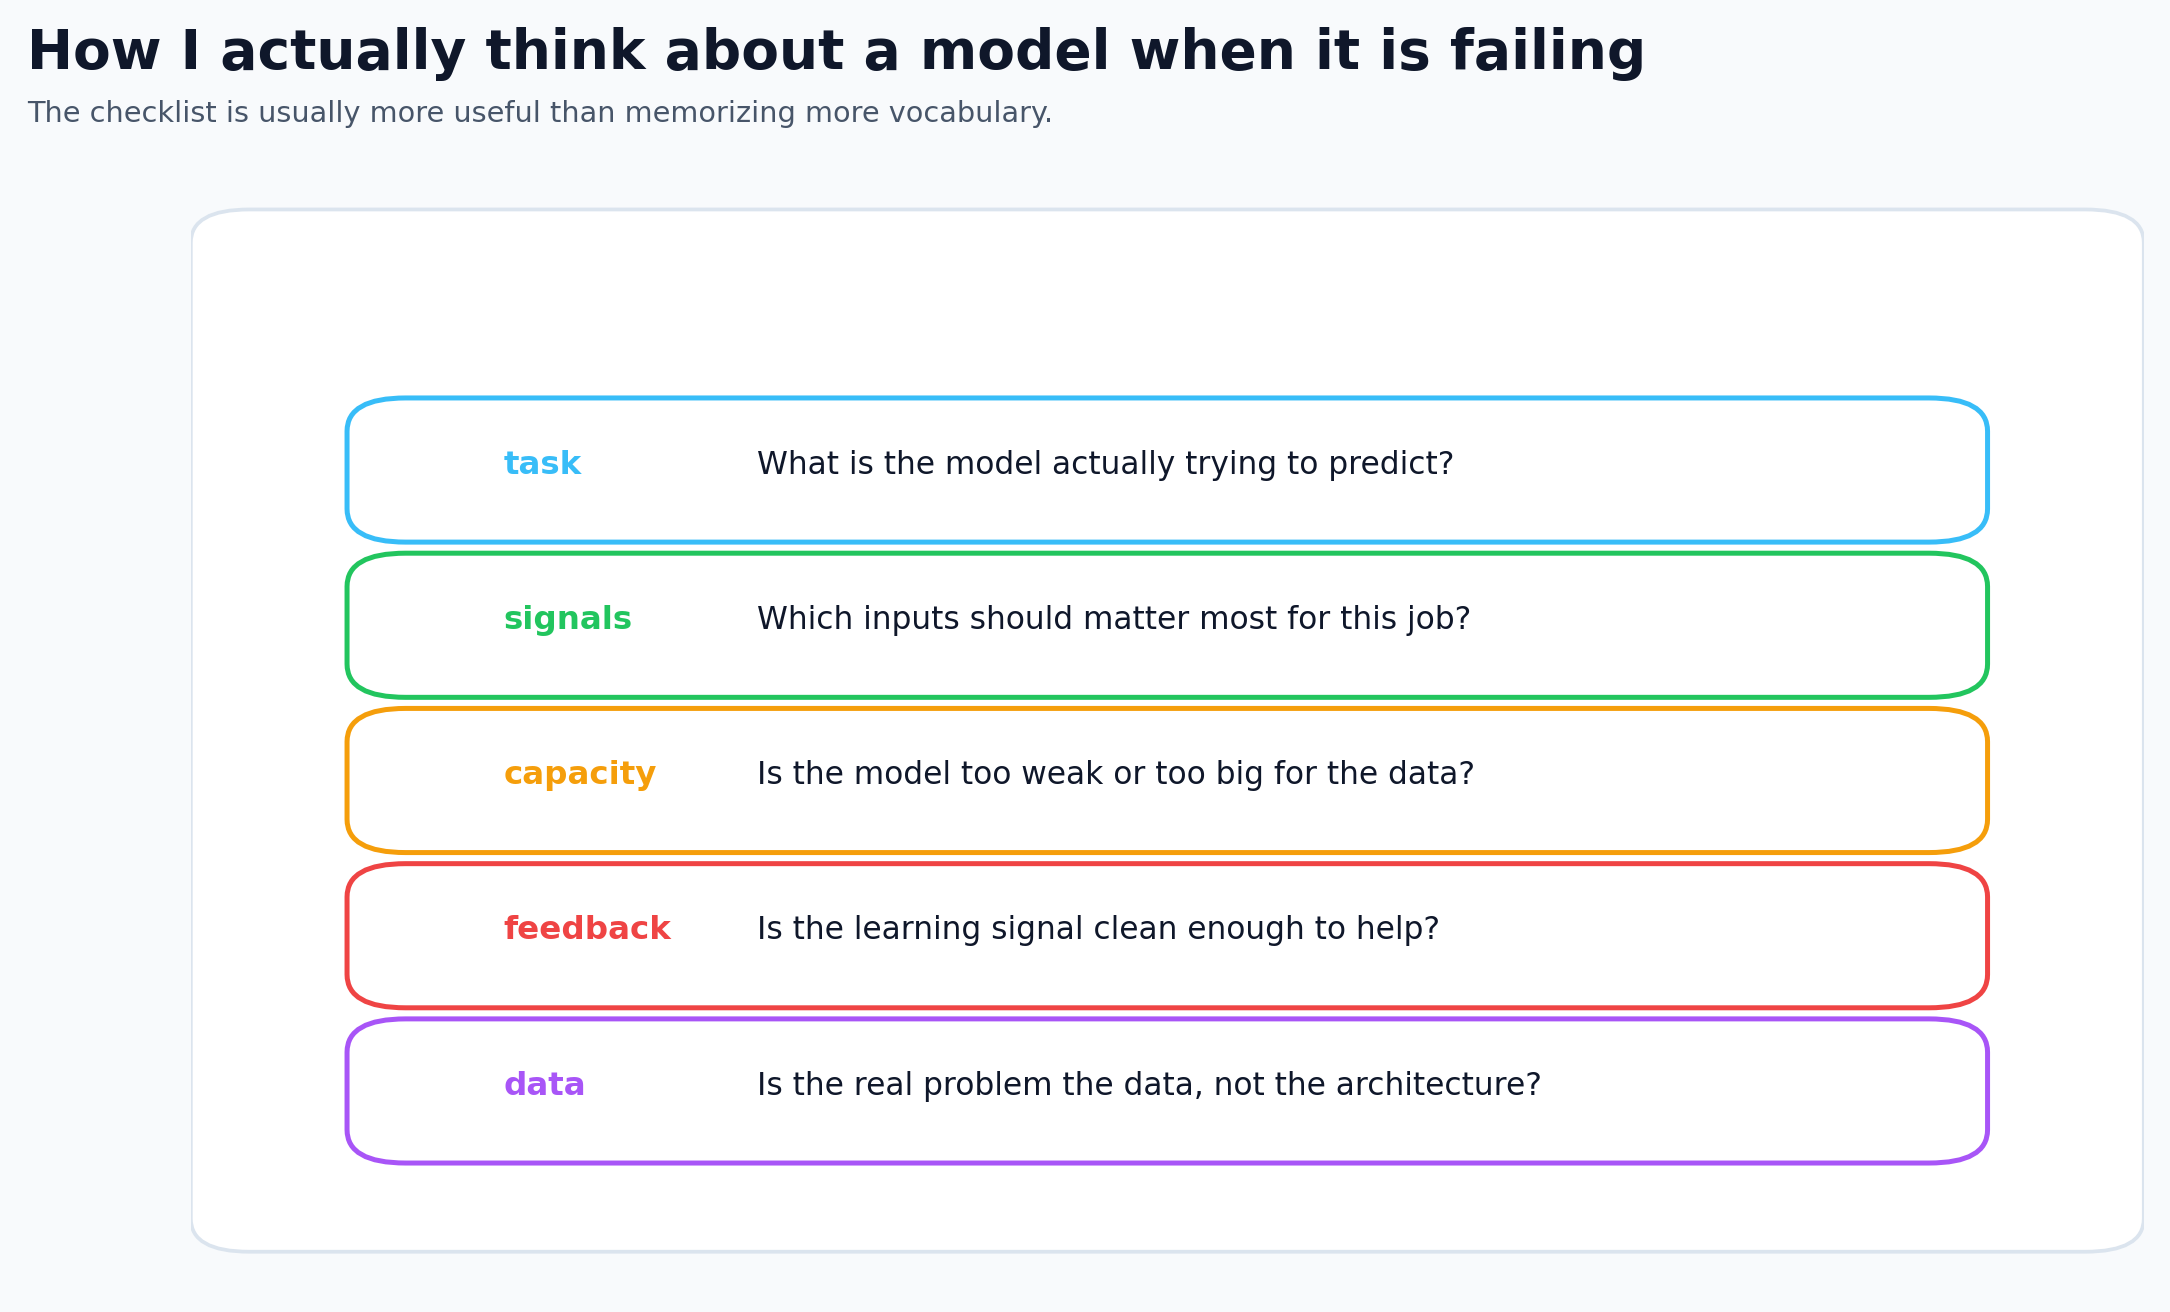
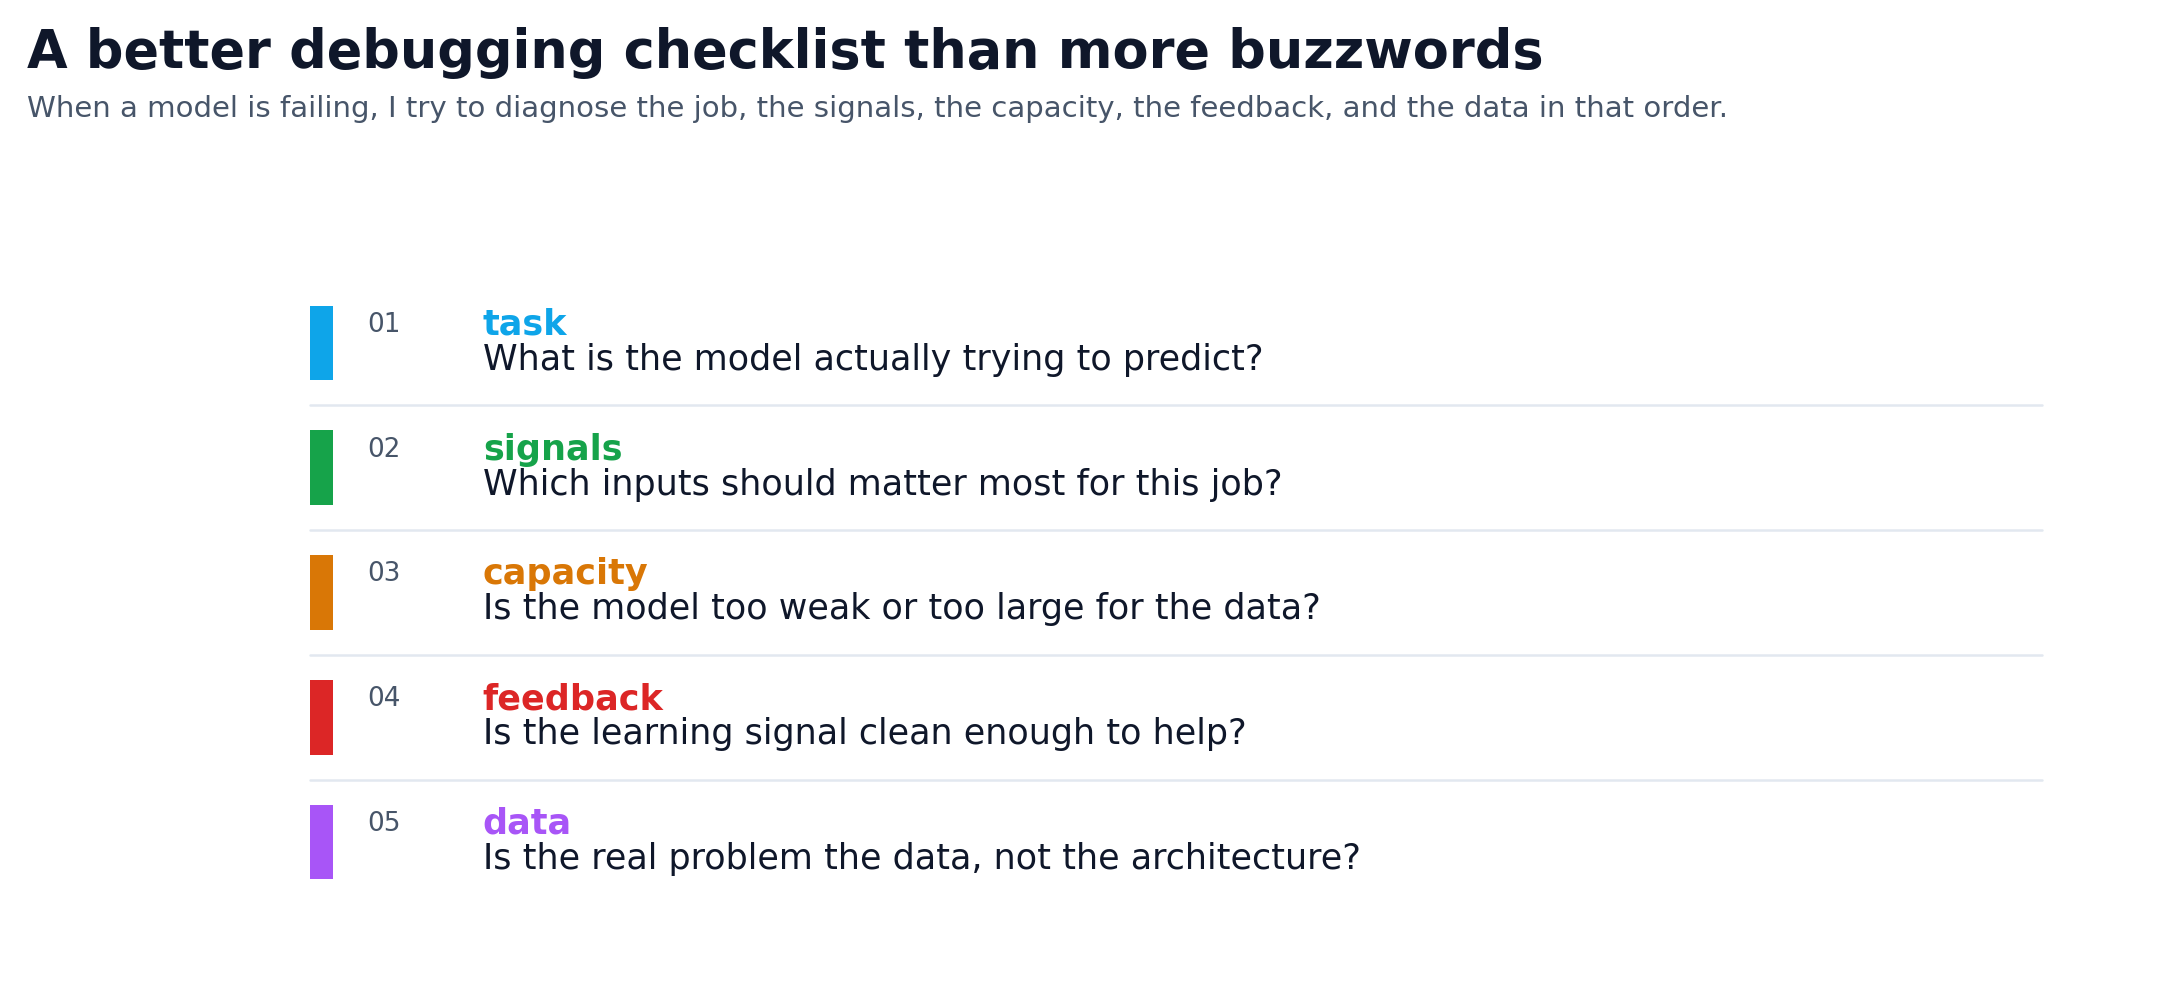
Redesign backprop and debugging figures

diff --git a/scripts/generate_neural_network_article_images.py b/scripts/generate_neural_network_article_images.py
@@ -686,18 +686,27 @@ def image_weights_biases():
     save(fig, 'weights-biases.png')
 
 def image_backprop_blame_assignment():
-    fig, ax = plt.subplots(figsize=(13.8, 6.2), facecolor='white')
-    ax.set_xlim(0, 1)
-    ax.set_ylim(0, 1)
-    ax.axis('off')
+    fig = plt.figure(figsize=(13.8, 6.3), facecolor='white')
+    fig.text(0.05, 0.95, 'Backprop is error credit assignment', fontsize=21, fontweight='bold', color=COLORS['ink'])
+    fig.text(0.05, 0.905, 'The model predicts, compares with the target, then sends blame backward. Bigger gradients mean bigger corrections.', fontsize=11.7, color=COLORS['muted'])
 
-    ax.text(0.07, 0.93, 'forward pass', fontsize=13.4, fontweight='bold', color=COLORS['ink'])
-    ax.text(0.74, 0.93, 'loss', fontsize=13.4, fontweight='bold', color=COLORS['ink'])
-    ax.text(0.07, 0.28, 'sample gradients', fontsize=13.0, fontweight='bold', color=COLORS['ink'])
+    gs = fig.add_gridspec(1, 2, left=0.05, right=0.98, top=0.86, bottom=0.13, width_ratios=[1.15, 0.85], wspace=0.16)
+    ax_net = fig.add_subplot(gs[0, 0])
+    ax_bar = fig.add_subplot(gs[0, 1])
 
-    inputs = [(0.12, 0.72, r'$x_1$', 0.80), (0.12, 0.46, r'$x_2$', 0.40)]
-    hidden = [(0.38, 0.78, r'$h_1$', 0.71), (0.38, 0.40, r'$h_2$', 0.29)]
-    output = (0.64, 0.58, r'$\hat{y}$', 0.63)
+    ax_net.set_xlim(0, 1)
+    ax_net.set_ylim(0, 1)
+    ax_net.axis('off')
+
+    ax_net.text(0.00, 0.96, '1. predict, compare, send error back', fontsize=14.0, fontweight='bold', color=COLORS['ink'])
+    ax_net.plot([0.00, 0.08], [0.90, 0.90], color=COLORS['blue_dark'], linewidth=3)
+    ax_net.text(0.09, 0.90, 'forward signal', va='center', fontsize=10.8, color=COLORS['muted'])
+    ax_net.add_patch(FancyArrowPatch((0.27, 0.90), (0.35, 0.90), arrowstyle='->', linewidth=2.4, color=COLORS['purple'], mutation_scale=12))
+    ax_net.text(0.36, 0.90, 'error signal', va='center', fontsize=10.8, color=COLORS['muted'])
+
+    inputs = [(0.10, 0.72, r'$x_1$', 0.80), (0.10, 0.42, r'$x_2$', 0.40)]
+    hidden = [(0.38, 0.80, r'$h_1$', 0.71), (0.38, 0.34, r'$h_2$', 0.29)]
+    output = (0.67, 0.57, r'$\hat{y}$', 0.63)
     target = 1.00
 
     forward_edges = [
@@ -708,84 +717,93 @@ def image_backprop_blame_assignment():
         (hidden[0][:2], output[:2], 3.2),
         (hidden[1][:2], output[:2], 1.9),
     ]
-    for start, end, width in forward_edges:
-        ax.add_patch(FancyArrowPatch(start, end, arrowstyle='-', linewidth=width, color=COLORS['blue_dark'], alpha=0.45))
+    for start_xy, end_xy, width in forward_edges:
+        ax_net.add_patch(FancyArrowPatch(start_xy, end_xy, arrowstyle='-', linewidth=width, color=COLORS['blue_dark'], alpha=0.42))
 
     for x, y, label, value in inputs:
-        ax.add_patch(Circle((x, y), 0.040, facecolor='#e0f2fe', edgecolor=COLORS['blue_dark'], linewidth=2))
-        ax.text(x, y + 0.003, label, ha='center', va='center', fontsize=16.5, fontweight='bold')
-        ax.text(x, y - 0.075, f'{value:.2f}', ha='center', va='center', fontsize=10.8, color=COLORS['muted'])
+        ax_net.add_patch(Circle((x, y), 0.050, facecolor='#e0f2fe', edgecolor=COLORS['blue_dark'], linewidth=2.2))
+        ax_net.text(x, y + 0.002, label, ha='center', va='center', fontsize=18, fontweight='bold')
+        ax_net.text(x, y - 0.090, f'{value:.2f}', ha='center', va='center', fontsize=11.0, color=COLORS['muted'])
     for x, y, label, value in hidden:
-        ax.add_patch(Circle((x, y), 0.046, facecolor='white', edgecolor='#94a3b8', linewidth=2))
-        ax.text(x, y + 0.003, label, ha='center', va='center', fontsize=16.5, fontweight='bold')
-        ax.text(x, y - 0.080, f'{value:.2f}', ha='center', va='center', fontsize=10.8, color=COLORS['muted'])
-    ax.add_patch(Circle(output[:2], 0.050, facecolor='#fef3c7', edgecolor=COLORS['amber_dark'], linewidth=2))
-    ax.text(output[0], output[1] + 0.003, output[2], ha='center', va='center', fontsize=17.0, fontweight='bold')
-    ax.text(output[0], output[1] - 0.084, f'{output[3]:.2f}', ha='center', va='center', fontsize=10.8, color=COLORS['muted'])
+        ax_net.add_patch(Circle((x, y), 0.056, facecolor='white', edgecolor='#94a3b8', linewidth=2.2))
+        ax_net.text(x, y + 0.002, label, ha='center', va='center', fontsize=18, fontweight='bold')
+        ax_net.text(x, y - 0.100, f'{value:.2f}', ha='center', va='center', fontsize=11.0, color=COLORS['muted'])
+    ax_net.add_patch(Circle(output[:2], 0.058, facecolor='#fef3c7', edgecolor=COLORS['amber_dark'], linewidth=2.2))
+    ax_net.text(output[0], output[1] + 0.002, output[2], ha='center', va='center', fontsize=18, fontweight='bold')
+    ax_net.text(output[0], output[1] - 0.100, f'{output[3]:.2f}', ha='center', va='center', fontsize=11.0, color=COLORS['muted'])
 
-    loss_box = FancyBboxPatch((0.79, 0.50), 0.14, 0.16, boxstyle='round,pad=0.02,rounding_size=0.03', facecolor='#fff7ed', edgecolor=COLORS['amber_dark'], linewidth=1.8)
-    ax.add_patch(loss_box)
-    ax.add_patch(FancyArrowPatch((0.69, 0.58), (0.79, 0.58), arrowstyle='->', linewidth=1.7, color=COLORS['line'], mutation_scale=12))
-    ax.text(0.86, 0.615, fr'target = {target:.2f}', ha='center', va='center', fontsize=11.2)
-    ax.text(0.86, 0.575, fr'prediction = {output[3]:.2f}', ha='center', va='center', fontsize=11.2)
-    ax.text(0.86, 0.530, r'$L = (\hat{y} - y)^2$', ha='center', va='center', fontsize=11.2, color=COLORS['muted'])
+    loss_box = FancyBboxPatch((0.79, 0.47), 0.17, 0.18, boxstyle='round,pad=0.02,rounding_size=0.03', facecolor='#fff7ed', edgecolor=COLORS['amber_dark'], linewidth=1.8)
+    ax_net.add_patch(loss_box)
+    ax_net.add_patch(FancyArrowPatch((0.73, 0.57), (0.79, 0.57), arrowstyle='->', linewidth=1.7, color=COLORS['line'], mutation_scale=12))
+    ax_net.text(0.875, 0.61, f'target = {target:.2f}', ha='center', va='center', fontsize=11.4)
+    ax_net.text(0.875, 0.565, f'prediction = {output[3]:.2f}', ha='center', va='center', fontsize=11.4)
+    ax_net.text(0.875, 0.515, r'$L = (\hat{y} - y)^2$', ha='center', va='center', fontsize=11.2, color=COLORS['muted'])
 
     backward_paths = [
-        ((0.80, 0.50), (0.66, 0.52), -0.10, 2.7),
-        ((0.60, 0.50), (0.42, 0.72), -0.15, 2.9),
-        ((0.60, 0.50), (0.42, 0.46), 0.03, 1.9),
-        ((0.33, 0.70), (0.16, 0.68), 0.10, 1.8),
-        ((0.33, 0.44), (0.16, 0.48), -0.10, 2.5),
+        ((0.82, 0.47), (0.71, 0.49), -0.10, 2.8),
+        ((0.64, 0.49), (0.43, 0.73), -0.13, 3.0),
+        ((0.64, 0.49), (0.43, 0.37), 0.05, 2.0),
+        ((0.30, 0.70), (0.14, 0.67), 0.10, 1.9),
+        ((0.30, 0.36), (0.14, 0.44), -0.10, 2.5),
     ]
-    for start, end, rad, width in backward_paths:
-        ax.add_patch(FancyArrowPatch(start, end, arrowstyle='->', linewidth=width, color=COLORS['purple'], alpha=0.82, mutation_scale=12, connectionstyle=f'arc3,rad={rad}'))
-    ax.text(0.54, 0.69, 'error signal flows backward', fontsize=11.1, color=COLORS['purple'], fontweight='bold')
-    ax.text(0.54, 0.63, r'larger $|\nabla L|$ means a larger update', fontsize=10.6, color=COLORS['muted'])
+    for start_xy, end_xy, rad, width in backward_paths:
+        ax_net.add_patch(FancyArrowPatch(start_xy, end_xy, arrowstyle='->', linewidth=width, color=COLORS['purple'], alpha=0.82, mutation_scale=12, connectionstyle=f'arc3,rad={rad}'))
+    ax_net.text(0.52, 0.74, 'prediction missed target → send blame back', fontsize=11.0, color=COLORS['purple'], fontweight='bold')
 
-    baseline = 0.14
-    ax.plot([0.07, 0.90], [baseline, baseline], color='#cbd5e1', linewidth=1.2)
+    ax_bar.set_title('2. larger gradients mean larger corrections', loc='left', fontsize=14.0, pad=10, fontweight='bold')
     bars = [
-        (0.22, -0.41, 'x1→h1'),
-        (0.30, 0.62, 'x2→h2'),
-        (0.50, -0.84, 'h1→ŷ'),
-        (0.58, 0.28, 'h2→ŷ'),
-        (0.73, -0.19, 'b_h1'),
-        (0.81, 0.11, 'b_ŷ'),
+        ('x1→h1', -0.41),
+        ('x2→h2', 0.62),
+        ('h1→ŷ', -0.84),
+        ('h2→ŷ', 0.28),
+        ('b_h1', -0.19),
+        ('b_ŷ', 0.11),
     ]
-    max_abs = max(abs(value) for _, value, _ in bars)
-    for x, value, label in bars:
-        height = 0.18 * (value / max_abs)
-        color = '#6d28d9' if value >= 0 else '#4c1d95'
-        ax.add_patch(Rectangle((x - 0.025, baseline), 0.05, height, facecolor=color, alpha=0.88))
-        ax.text(x, baseline + height + (0.028 if value >= 0 else -0.070), f'{value:+.2f}', ha='center', va='bottom' if value >= 0 else 'top', fontsize=10.4)
-        ax.text(x, 0.05, label, ha='center', va='top', fontsize=9.8, color=COLORS['muted'])
-    ax.text(0.73, 0.235, r'update: $w \leftarrow w - \eta \nabla_w L$', fontsize=10.8, color=COLORS['muted'])
+    labels = [label for label, _ in bars]
+    values = np.array([value for _, value in bars])
+    y = np.arange(len(bars))
+    colors = np.where(values >= 0, COLORS['purple'], '#6d28d9')
+    ax_bar.barh(y, values, color=colors, alpha=0.88, height=0.72)
+    ax_bar.axvline(0, color='#cbd5e1', linewidth=1.3)
+    ax_bar.set_yticks(y, labels=labels)
+    ax_bar.set_xlabel('signed gradient')
+    ax_bar.grid(axis='x', alpha=0.12)
+    sns.despine(ax=ax_bar, left=True, bottom=False)
+    ax_bar.invert_yaxis()
+    max_abs = np.max(np.abs(values))
+    ax_bar.set_xlim(-max_abs * 1.18, max_abs * 1.18)
+    for idx, value in enumerate(values):
+        ax_bar.text(value + (0.03 if value >= 0 else -0.03), idx, f'{value:+.2f}', va='center', ha='left' if value >= 0 else 'right', fontsize=10.4)
+    ax_bar.text(0.02, 0.96, r'update rule: $w \leftarrow w - \eta \nabla_w L$', transform=ax_bar.transAxes, va='top', fontsize=11.0, color=COLORS['muted'])
+
     save(fig, 'backprop-blame-assignment.png')
 
 def image_debugging_checklist():
-    fig, ax = plt.subplots(figsize=(14, 8))
+    fig, ax = plt.subplots(figsize=(13.8, 6.0), facecolor='white')
     ax.set_xlim(0, 1)
     ax.set_ylim(0, 1)
     ax.axis('off')
-    add_rounded_panel(ax)
-    title_block(fig, 'How I actually think about a model when it is failing', 'The checklist is usually more useful than memorizing more vocabulary.')
+
+    fig.text(0.05, 0.95, 'A better debugging checklist than more buzzwords', fontsize=21, fontweight='bold', color=COLORS['ink'])
+    fig.text(0.05, 0.905, 'When a model is failing, I try to diagnose the job, the signals, the capacity, the feedback, and the data in that order.', fontsize=11.7, color=COLORS['muted'])
 
     items = [
-        ('task', 'What is the model actually trying to predict?', COLORS['blue']),
-        ('signals', 'Which inputs should matter most for this job?', COLORS['green']),
-        ('capacity', 'Is the model too weak or too big for the data?', COLORS['amber']),
-        ('feedback', 'Is the learning signal clean enough to help?', COLORS['red']),
-        ('data', 'Is the real problem the data, not the architecture?', COLORS['purple']),
+        ('01', 'task', 'What is the model actually trying to predict?', COLORS['blue_dark']),
+        ('02', 'signals', 'Which inputs should matter most for this job?', COLORS['green_dark']),
+        ('03', 'capacity', 'Is the model too weak or too large for the data?', COLORS['amber_dark']),
+        ('04', 'feedback', 'Is the learning signal clean enough to help?', COLORS['red_dark']),
+        ('05', 'data', 'Is the real problem the data, not the architecture?', COLORS['purple']),
     ]
-    y_positions = [0.74, 0.60, 0.46, 0.32, 0.18]
-    for (label, question, color), y in zip(items, y_positions):
-        ax.add_patch(FancyBboxPatch((0.10, y - 0.05), 0.80, 0.09, boxstyle='round,pad=0.02,rounding_size=0.03',
-                                    facecolor='white', edgecolor=color, linewidth=2))
-        ax.text(0.16, y, label, ha='left', va='center', fontsize=13, fontweight='bold', color=color)
-        ax.text(0.29, y, question, ha='left', va='center', fontsize=12.5, color=COLORS['ink'])
+    y_positions = [0.76, 0.61, 0.46, 0.31, 0.16]
+    for index, (num, label, question, color), y in zip(range(len(items)), items, y_positions):
+        if index > 0:
+            ax.plot([0.05, 0.95], [y + 0.075, y + 0.075], color='#e2e8f0', linewidth=1)
+        ax.add_patch(Rectangle((0.05, y - 0.045), 0.012, 0.09, facecolor=color, edgecolor='none'))
+        ax.text(0.08, y + 0.022, num, ha='left', va='center', fontsize=10.5, color=COLORS['muted'])
+        ax.text(0.14, y + 0.022, label, ha='left', va='center', fontsize=14.0, fontweight='bold', color=color)
+        ax.text(0.14, y - 0.020, question, ha='left', va='center', fontsize=14.0, color=COLORS['ink'])
 
     save(fig, 'debugging-checklist.png')
-
 
 def main():
     image_explanation_problem()

diff --git a/_notes/neural-network-figure-scorecard.md b/_notes/neural-network-figure-scorecard.md
@@ -21,10 +21,10 @@ Shipping threshold: `40/50` and no score below `3`.
 | `neuron-scoring-rule.png` | 5 | 4 | 5 | 4 | 5 | 5 | 4 | 4 | 4 | 4 | 44 |
 | `weights-biases.png` | 5 | 4 | 5 | 5 | 5 | 5 | 5 | 4 | 4 | 4 | 46 |
 | `weights-bias-threshold-shift.gif` | 5 | 4 | 5 | 5 | 5 | 4 | 4 | 4 | 4 | 4 | 44 |
-| `activation-functions.png` | 4 | 4 | 5 | 4 | 5 | 5 | 5 | 4 | 4 | 4 | 44 |
+| `activation-functions.png` | 4 | 4 | 5 | 4 | 5 | 5 | 5 | 4 | 4 | 5 | 45 |
 | `representation-building.png` | 4 | 4 | 5 | 5 | 4 | 4 | 5 | 4 | 4 | 4 | 43 |
-| `backprop-blame-assignment.png` | 5 | 4 | 4 | 5 | 4 | 5 | 4 | 4 | 4 | 4 | 43 |
-| `debugging-checklist.png` | 4 | 5 | 5 | 4 | 5 | 4 | 5 | 3 | 4 | 4 | 43 |
+| `backprop-blame-assignment.png` | 5 | 4 | 5 | 5 | 4 | 5 | 4 | 4 | 4 | 5 | 45 |
+| `debugging-checklist.png` | 4 | 5 | 5 | 4 | 5 | 4 | 5 | 4 | 4 | 5 | 45 |
 
 ## Notes By Figure
 
@@ -41,8 +41,8 @@ Shipping threshold: `40/50` and no score below `3`.
   - Keep using this style: one scenario, one score, one decision difference.
 
 - `weights-bias-threshold-shift.gif`
-  - Much cleaner after the collision fix.
-  - Still a bit dense in the left summary block, so it should be watched in future passes.
+  - Frame-level collisions are cleaned up enough to ship.
+  - Still slightly dense on the left summary block, so it should be watched in future passes.
 
 - `activation-functions.png`
   - The title collision is fixed.
@@ -53,9 +53,9 @@ Shipping threshold: `40/50` and no score below `3`.
   - Could get stronger with one more explicit cue about why the final line reads the later representation better.
 
 - `backprop-blame-assignment.png`
-  - The story is there now: forward pass, loss, backward signal, gradient sizes.
-  - The lower bar section is still busier than it should be.
+  - Better split now: left side explains the signal flow, right side explains which parameters move most.
+  - The next polish pass should focus on spacing and typography, not structure.
 
 - `debugging-checklist.png`
-  - Legible and useful, but the most slide-like figure in the set.
-  - If this gets another pass, reduce the box treatment and make the hierarchy more editorial.
+  - Much less slide-like after the redesign.
+  - This is now a clean editorial checklist instead of a stack of colored boxes.

diff --git a/_notes/figure-production-standard.md b/_notes/figure-production-standard.md
@@ -1,0 +1,79 @@
+# Figure Production Standard
+
+This is the minimum process for every new static figure or animation in this repo.
+
+## Non-Negotiables
+
+- Start with one teaching target, not a vague topic.
+- State what changes and what stays fixed before drawing.
+- Use a concrete example whenever the concept is abstract.
+- Keep most explanation in the article or caption, not inside the image.
+- Reject any figure with visible text overlap, cropped labels, or unreadable collisions.
+- Score every shipping figure against the 50-point rubric before push.
+
+## Required Workflow
+
+1. **Teaching brief**
+   - Audience level
+   - One-sentence lesson
+   - Three questions the viewer should be able to answer after seeing it
+
+2. **Concept breakdown**
+   - Components
+   - Variables and symbols
+   - What changes
+   - What stays fixed
+   - Likely misconceptions
+
+3. **Visual grammar choice**
+   - Static for structure, comparison, and scale
+   - Animation only when state change is the lesson
+
+4. **Variant pass**
+   - Structural option
+   - Quantitative option
+   - Dynamic option
+   - Pick a winner or hybrid before polishing
+
+5. **Render review**
+   - Collision check
+   - Scale/threshold check
+   - Plain-language label check
+   - Math alignment check
+   - Editorial polish check
+
+6. **Score gate**
+   - Use `_notes/figure-quality-rubric.md`
+   - Minimum `40/50`
+   - No category below `3/5`
+   - Any text collision = fail
+
+7. **Animation frame review**
+   - Check frame `0`, a middle frame, and the last frame
+   - Verify that no annotation collides as values move
+   - Verify that the moving element is the lesson, not decoration
+
+8. **Live verification**
+   - Rebuild site
+   - Push
+   - Verify cache-busted asset URLs live
+
+## Fast Repair Order
+
+1. Fix text fit
+2. Fix lesson clarity
+3. Fix fixed-vs-changing logic
+4. Fix quantitative honesty
+5. Only then polish spacing, hierarchy, and color
+
+## Delegation Default
+
+When Copilot auth is available, run a small review swarm before finalizing:
+
+- critique lane
+- layout lane
+- microcopy lane
+- animation lane
+- red-team lane
+
+Use the swarm to generate options and objections, then merge only the best ideas into the final figure.
